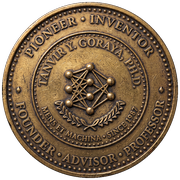
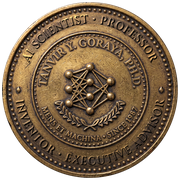
Publish v76: re-engraved medal
Claude-Session: https://claude.ai/code/session_01GWfdM86N8KTTKbkBphEfrC

diff --git a/index.html b/index.html
@@ -974,7 +974,7 @@ h3 { letter-spacing: 0; }
 <main id="top">
   <section class="intro dark" aria-labelledby="name">
     <div class="wrap">
-      <div class="seal-slot"><img src="img/seal.webp" alt="Seal of Tanvir Y. Goraya, Ph.D.: Pioneer, Inventor, Founder, Advisor. Mens et Machina, since 1987." width="1200" height="1200"></div>
+      <div class="seal-slot"><img src="img/seal.webp" alt="Seal of Tanvir Y. Goraya, Ph.D.: AI Scientist, Professor, Inventor, Executive Advisor. Mens et Machina, since 1987." width="1200" height="1200"></div>
       <h1 id="name">Tanvir Y. Goraya, Ph.D.</h1>
       <div class="inscription"><span>AI Scientist</span><i></i><span>Professor</span><i></i><span>Inventor</span><i></i><span>Executive Advisor</span></div>
       <p class="promise">Model what your experts can't articulate, before they leave.</p>
